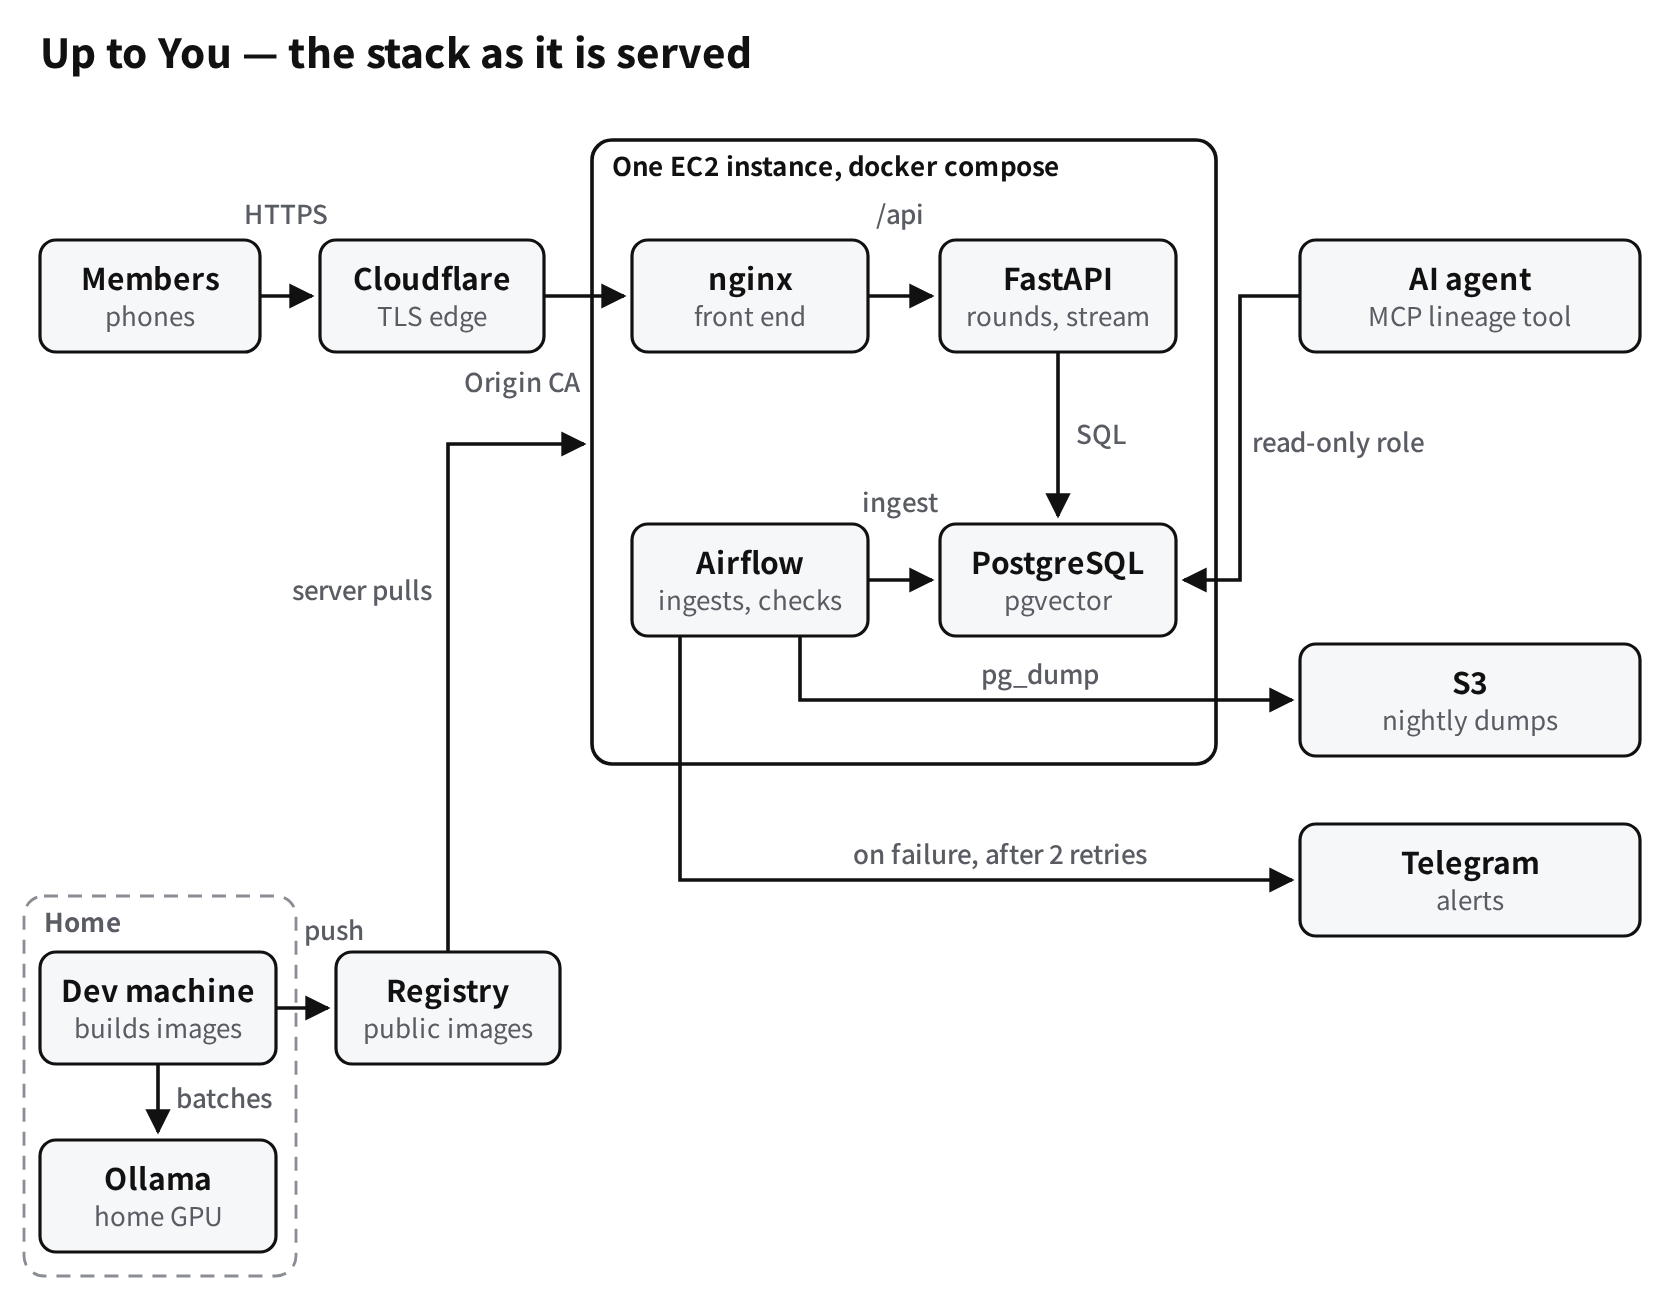
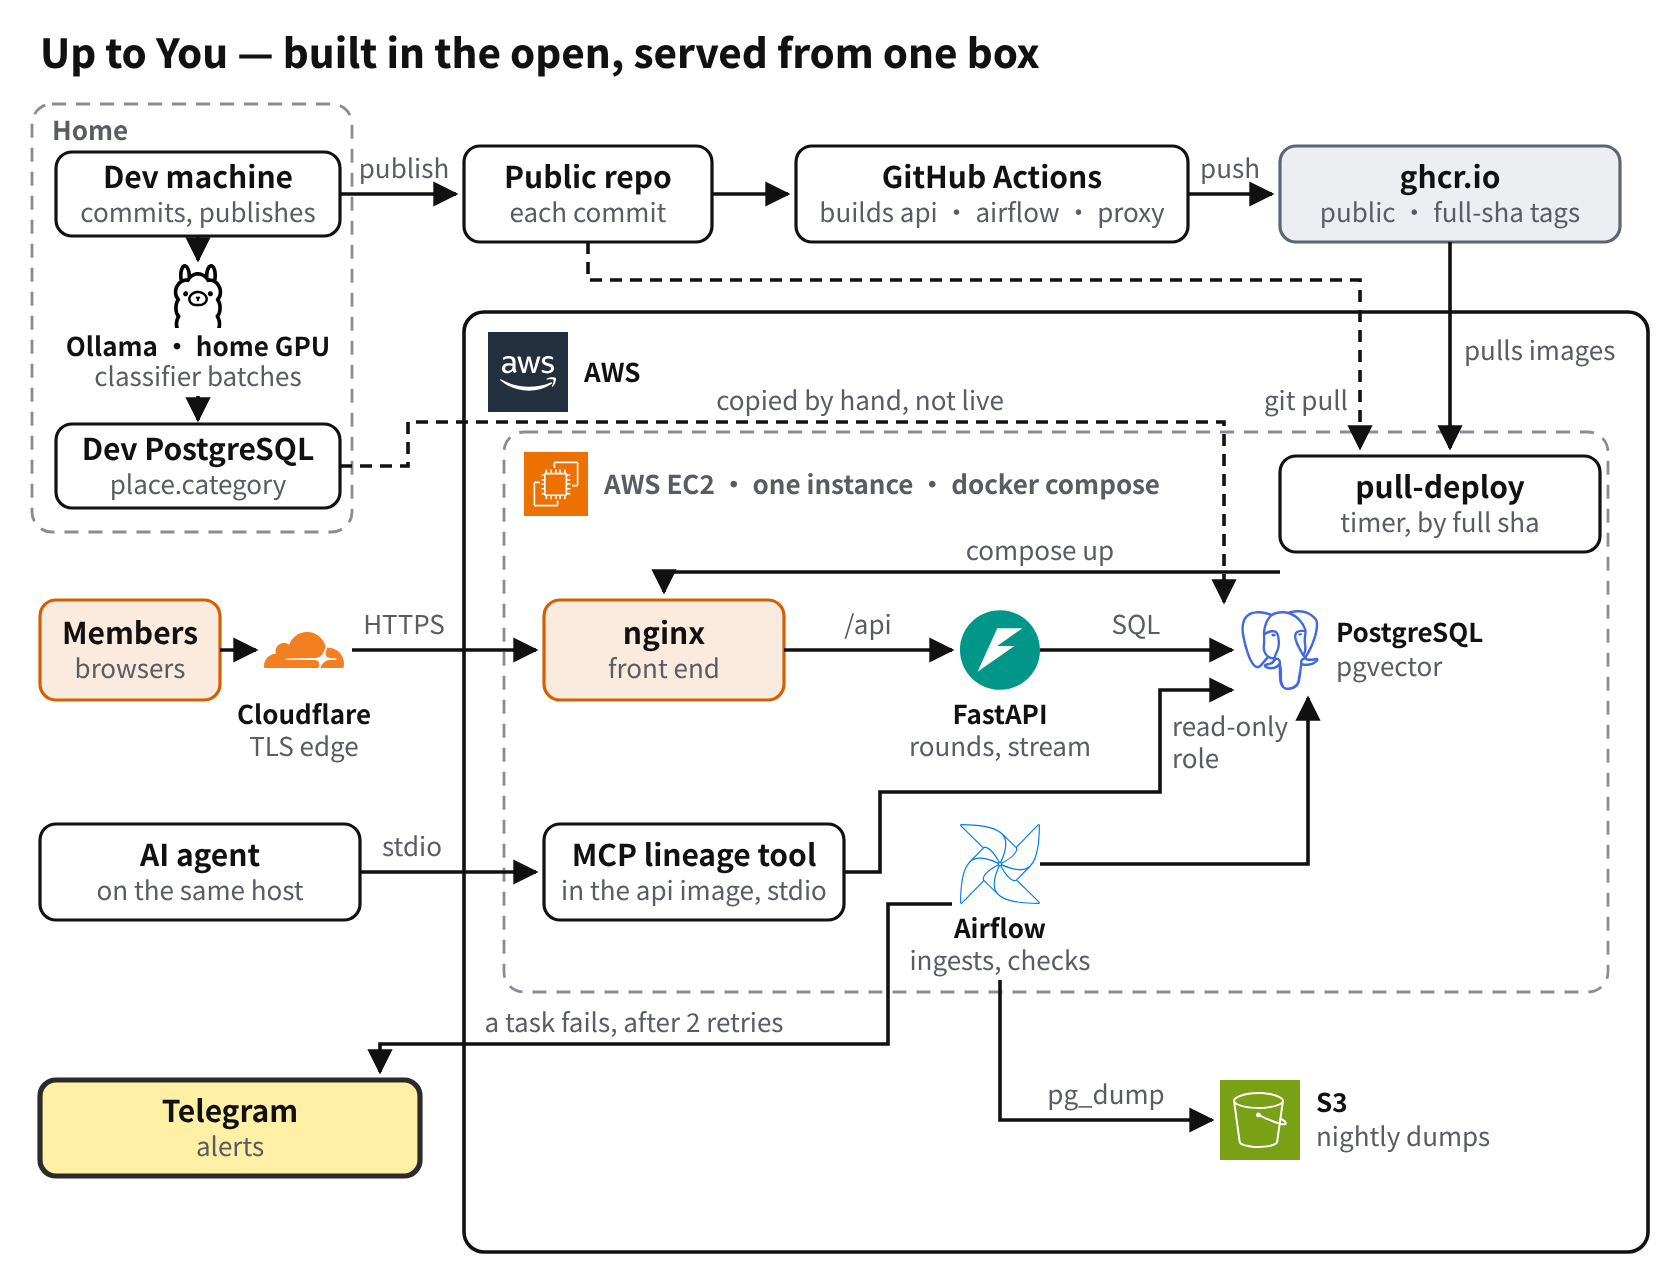
docs: the architecture picture redrawn with the vendors' marks, the image workflow and the by-hand category copy
The images are built by the repository's workflow and tagged with the full
commit; the box pulls them by that tag. The classifier writes into the
development database, and the categories reach the instance by a copy made
by hand, not a live link. The lineage tool is part of the api image, over
stdio, on the read-only role.

diff --git a/docs/diagrams/README.md b/docs/diagrams/README.md
@@ -142,8 +142,7 @@ the common colour-vision deficiencies), and pale yellow with a heavy black borde
 models — told from vermilion by lightness, since a darker amber looked the same as vermilion to
 protan and deutan readers. A box takes a light tint of its
 colour with the full colour as its border; a group's outline takes the colour, dashed. Every text
-clears 4.5:1 and every border 3:1, measured on the PNGs. `architecture` keeps black on white until it
-is redrawn in the same idiom.
+clears 4.5:1 and every border 3:1, measured on the PNGs. `architecture` is drawn in the same idiom with the vendors' own marks: a solid AWS frame with the AWS mark, a dashed AWS EC2 region, and Cloudflare, FastAPI, PostgreSQL, Airflow and Ollama in their own colours (marks/NOTICE.md). nginx, GitHub, ghcr and Telegram are labelled boxes.
 
 **Each file is one file.** No stylesheet, no webfont, no CDN script, no remote image — the
 upstream skill's Google Fonts link and its two CDN export scripts were removed for exactly this
